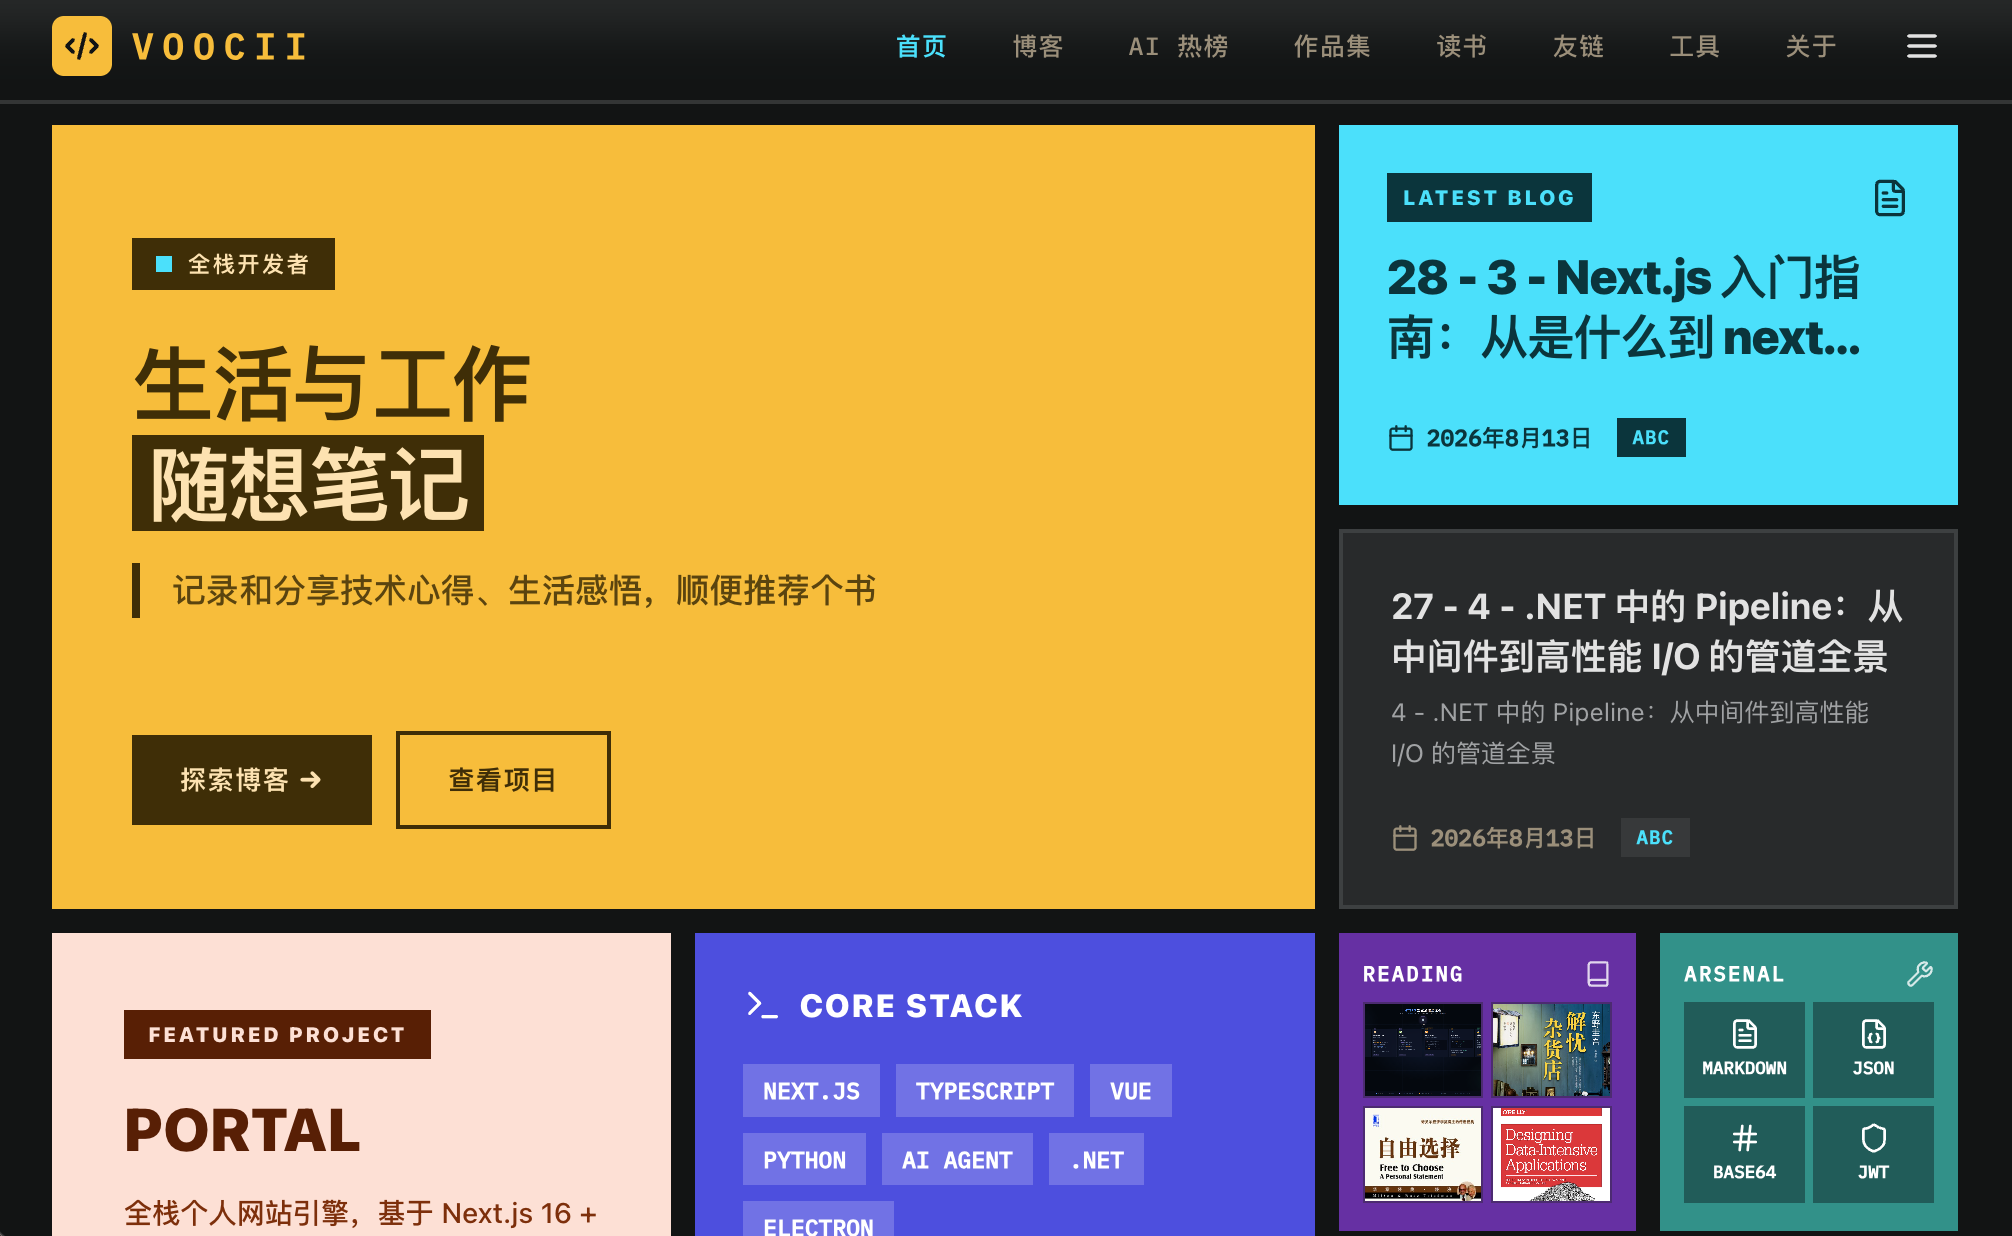
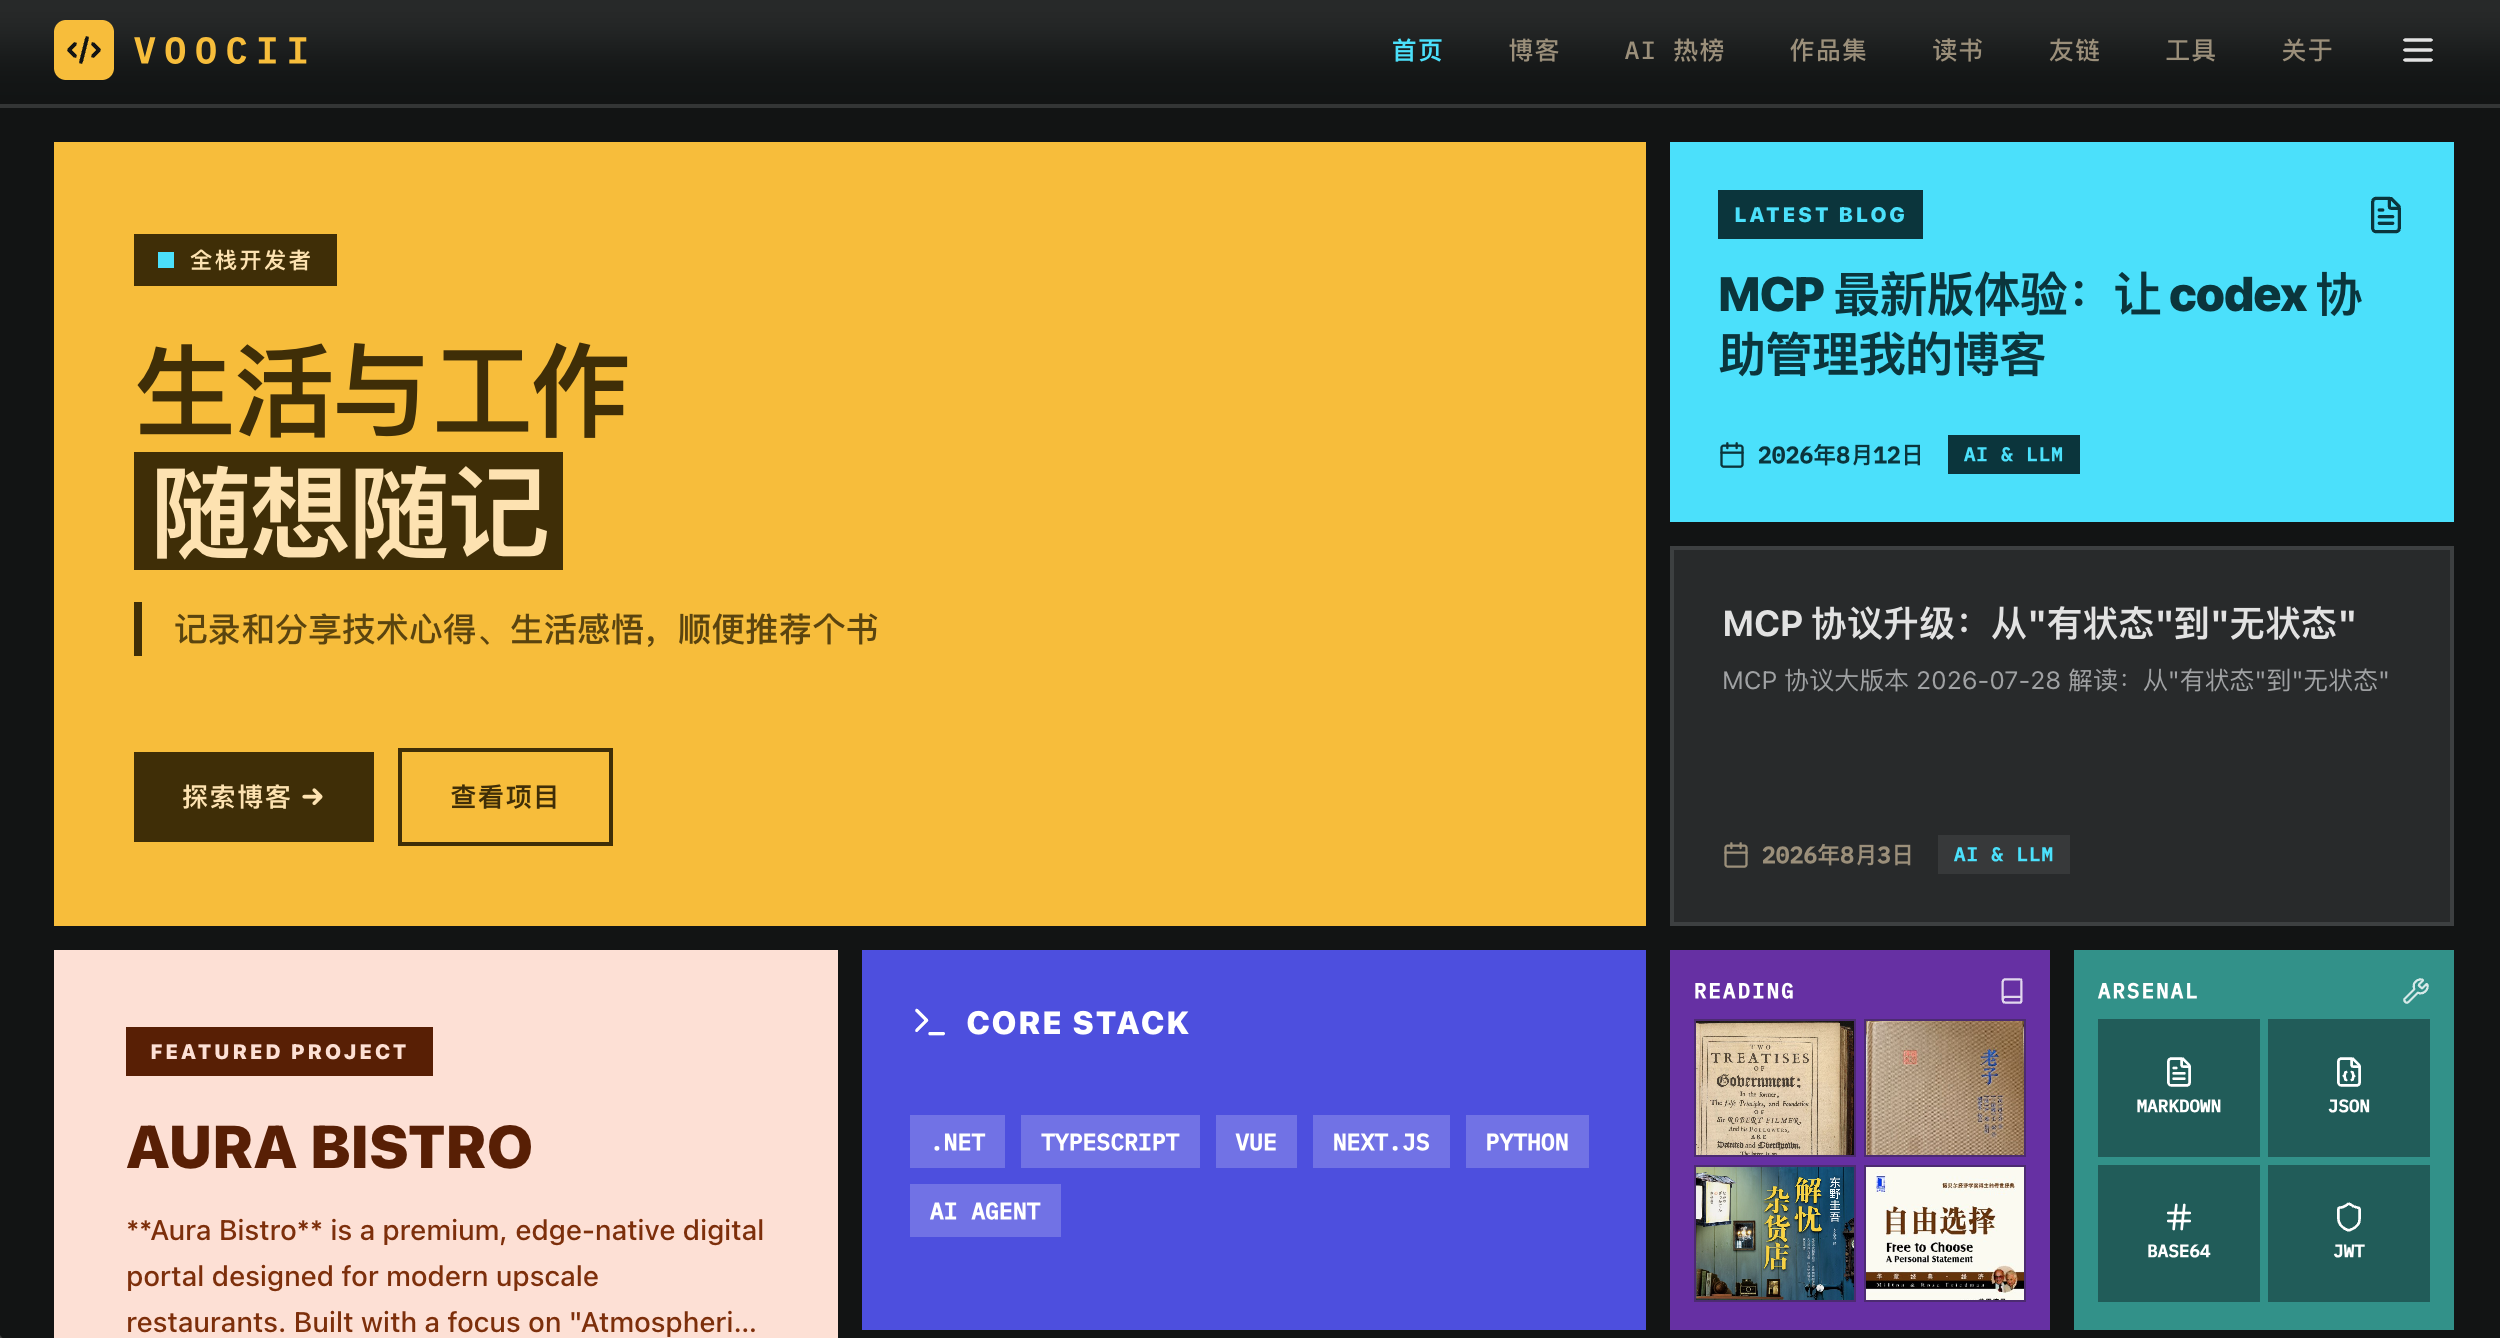
docs: update README layout and replace Metro screenshot assets

Changed region(s): [[0.0, 0.0, 1.0, 1.0]]

diff --git a/README.md b/README.md
@@ -3,7 +3,16 @@
 A modern, full-stack personal portal and portfolio built with Next.js 16, tRPC, Prisma, and Tailwind CSS v4.
 
 English | [中文](./README.zh.md) 
-![Metro Homepage](./designs/screenshot/voocii-metro-en.png){width=400}  ![Classic Homepage](./designs/screenshot/voocii-classic-en.png){width=400}
+
+## Layout
+
+Classic:
+
+![Classic Homepage](./designs/screenshot/voocii-classic-en.png)
+
+Metro:
+
+![Metro Homepage](./designs/screenshot/voocii-metro-en.png)
 
 
 ## Features

diff --git a/README.zh.md b/README.zh.md
@@ -4,7 +4,15 @@
 
 [English](./README.md) | 中文
 
-![Metro Homepage](./designs/screenshot/voocii-metro.png){width=400} | ![Classic Homepage](./designs/screenshot/voocii-classic-zh.png){width=400}
+## 布局
+
+经典:
+
+![Classic Homepage](./designs/screenshot/voocii-classic-zh.png)
+
+Metro:
+
+![Metro Homepage](./designs/screenshot/voocii-metro-zh.png)
 
 
 ## 特性
